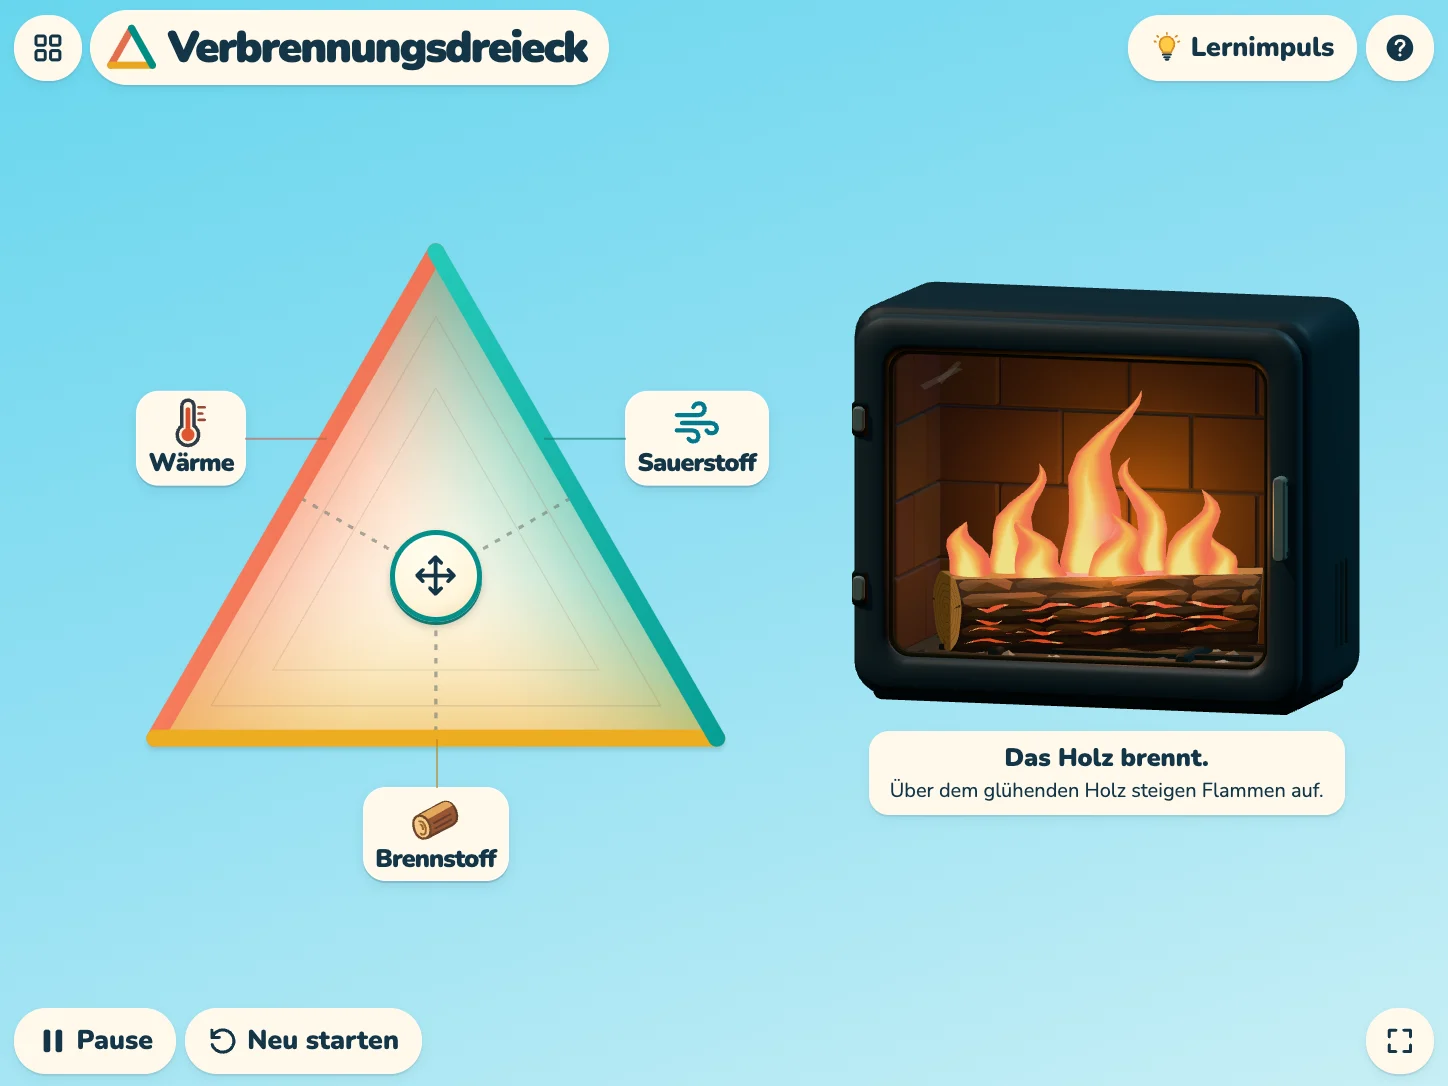
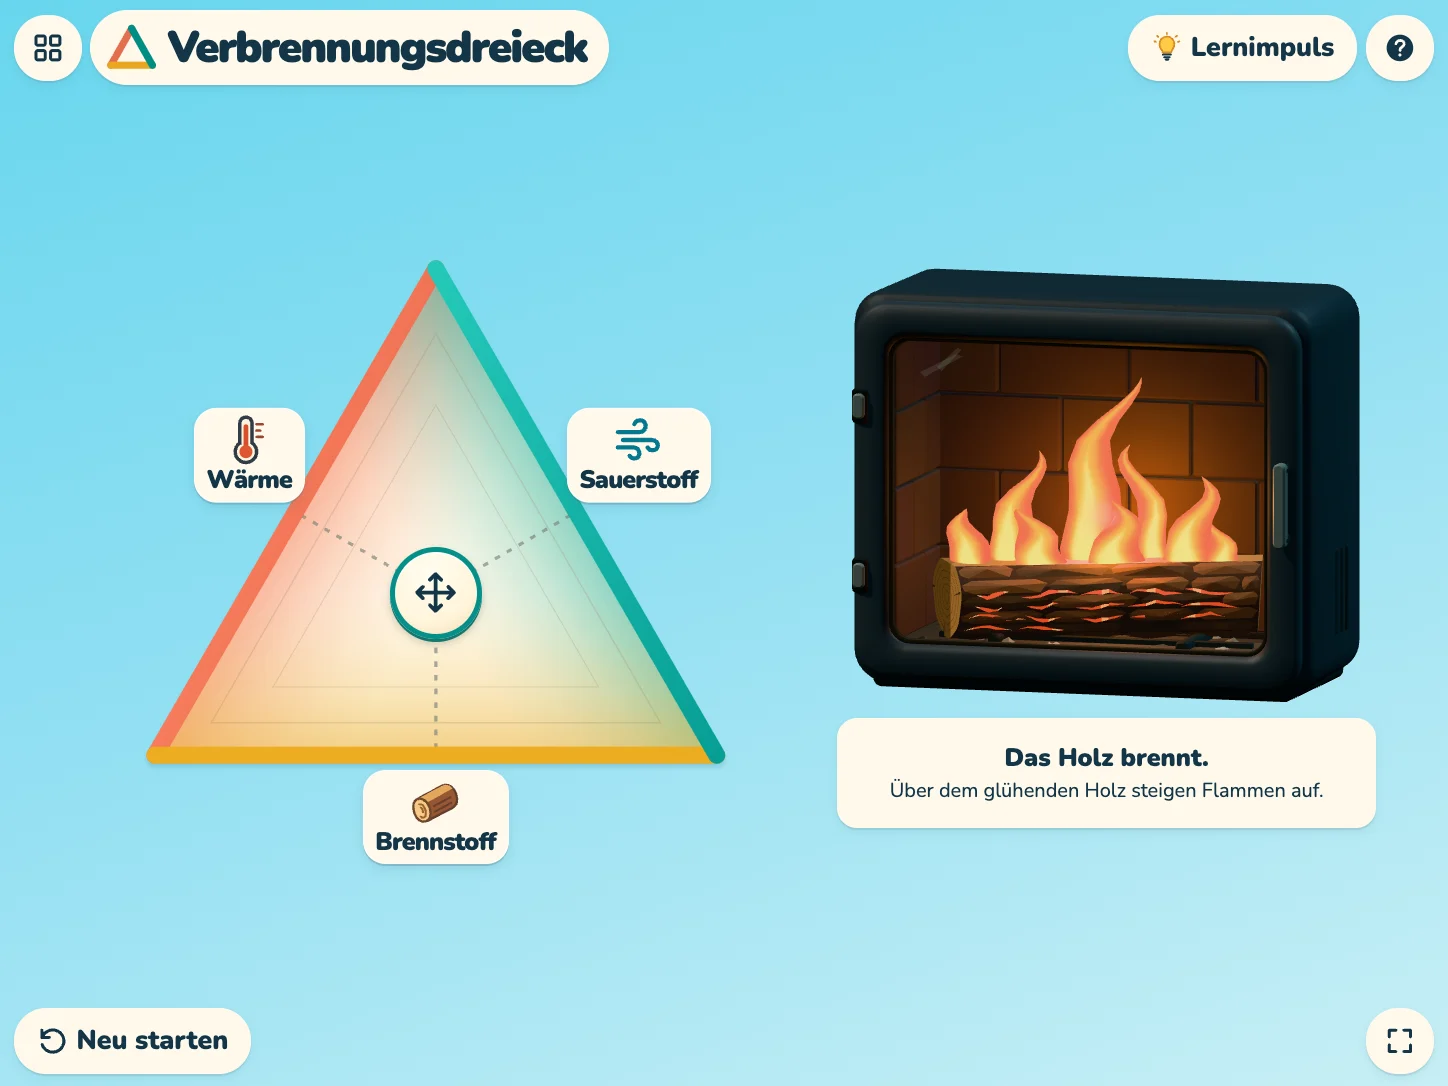
Keep the stove stationary and simplify the triangle controls

diff --git a/src/triangle/instrument.ts b/src/triangle/instrument.ts
@@ -86,26 +86,15 @@ function boardMarkup(): string {
     </div>`
 }
 
-function observation(reading: TriangleReading): [string, string] {
-  if (reading.state === 'steady')
-    return ['Das Holz brennt.', 'Über dem glühenden Holz steigen Flammen auf.']
-  if (reading.limitingFactor === 'fuel') {
-    if (reading.state === 'weak')
-      return ['Die Flammen sind kleiner.', 'Das Scheit wird dunkler. Ein Teil des Holzes ist schon verbrannt.']
-    return ['Die Flammen sind aus.', 'Auf dem verkohlten Rest liegt graue Asche.']
-  }
-  if (reading.state === 'weak')
-    return [
-      'Die Flammen sind kleiner.',
-      `Es ist weniger ${labels[reading.limitingFactor ?? 'oxygen']} verfügbar.`,
-    ]
-  if (reading.limitingFactor === 'heat')
-    return ['Die Flammen sind aus.', 'Das braune Holz ist noch da. Es ist zu kühl zum Weiterbrennen.']
-  return [
-    'Die Flammen sind aus.',
-    'Der Sauerstoff reicht nicht mehr zum Weiterbrennen der Flammen.',
-  ]
-}
+const observations = {
+  steady: ['Das Holz brennt.', 'Über dem glühenden Holz steigen Flammen auf.'],
+  'weak-heat': ['Die Flammen sind kleiner.', 'Es ist weniger Wärme verfügbar.'],
+  'weak-oxygen': ['Die Flammen sind kleiner.', 'Es ist weniger Sauerstoff verfügbar.'],
+  'weak-fuel': ['Die Flammen sind kleiner.', 'Das Scheit wird dunkler. Ein Teil des Holzes ist schon verbrannt.'],
+  'out-heat': ['Die Flammen sind aus.', 'Das braune Holz ist noch da. Es ist zu kühl zum Weiterbrennen.'],
+  'out-oxygen': ['Die Flammen sind aus.', 'Der Sauerstoff reicht nicht mehr zum Weiterbrennen der Flammen.'],
+  'out-fuel': ['Die Flammen sind aus.', 'Auf dem verkohlten Rest liegt graue Asche.'],
+} as const
 
 export interface TriangleInstrument {
   getReading(): TriangleReading
@@ -136,7 +125,9 @@ export function mountInstrument(
       </div>
       <span id="stove-camera-help" class="sr-only">Mit einem Finger seitlich ziehen oder die Pfeiltasten links und rechts nutzen. Pos1 zeigt die Startansicht.</span>
       <figcaption id="triangle-observation" aria-live="polite" aria-atomic="true">
-        <strong></strong><span></span>
+        ${Object.entries(observations).map(([key, [title, detail]]) =>
+          `<span class="observation-copy" data-observation="${key}" aria-hidden="true"><strong>${title}</strong><span>${detail}</span></span>`
+        ).join('')}
       </figcaption>
     </figure>
   </div>`
@@ -152,8 +143,7 @@ export function mountInstrument(
   const guides = factors.map(
     (factor) => [factor, find<SVGLineElement>(`[data-guide="${factor}"]`)] as const,
   )
-  const caption = find<HTMLElement>('figcaption strong')
-  const detail = find<HTMLElement>('figcaption span')
+  let activeCaption: HTMLElement | undefined
   const viewer = find<HTMLElement>('.stove-window')
   const load = find<HTMLElement>('.stove-load')
   const loadText = find<HTMLElement>('.stove-load span')
@@ -179,9 +169,12 @@ export function mountInstrument(
       guide.setAttribute('x2', String(end.x))
       guide.setAttribute('y2', String(end.y))
     }
-    const [title, hint] = observation(reading)
-    if (caption.textContent !== title) caption.textContent = title
-    if (detail.textContent !== hint) detail.textContent = hint
+    const key = reading.state === 'steady' ? 'steady' : `${reading.state}-${reading.limitingFactor}`
+    if (activeCaption?.dataset.observation !== key) {
+      activeCaption?.setAttribute('aria-hidden', 'true')
+      activeCaption = find<HTMLElement>(`[data-observation="${key}"]`)
+      activeCaption.removeAttribute('aria-hidden')
+    }
     instrument.dataset.fireState = reading.state
     stove?.setReading(reading)
   }

diff --git a/src/triangle/index.ts b/src/triangle/index.ts
@@ -68,7 +68,6 @@ export function mountTriangle(root: HTMLElement) {
     </div>
     <footer class="toolbar" aria-label="Versuch und Ansicht">
       <div class="play-controls">
-        <button class="pill" id="triangle-pause" type="button" aria-label="Pause" title="Pause"></button>
         <button class="pill" id="triangle-restart" type="button" aria-label="Neu starten" title="Neu starten">${icon('reset')}<span>Neu starten</span></button>
       </div>
       <div class="view-controls"><button id="fullscreen" class="pill compact" type="button" aria-label="Vollbild starten" title="Vollbild starten">${icon('expand')}</button></div>
@@ -79,7 +78,6 @@ export function mountTriangle(root: HTMLElement) {
 
   const session = new TriangleSession()
   const lesson = element<HTMLButtonElement>('triangle-lesson')
-  const pause = element<HTMLButtonElement>('triangle-pause')
   const next = element<HTMLButtonElement>('triangle-next')
   const nextLabel = element('triangle-next-label')
   const end = element<HTMLButtonElement>('triangle-end')
@@ -115,7 +113,7 @@ export function mountTriangle(root: HTMLElement) {
       (session.phase === 'discuss' && !watchingCooling) ||
       session.phase === 'transfer' ||
       session.phase === 'result'
-    instrument.setPaused(document.hidden || dialog.open || session.paused || discussing)
+    instrument.setPaused(document.hidden || dialog.open || discussing)
   }
 
   function refresh() {
@@ -125,11 +123,6 @@ export function mountTriangle(root: HTMLElement) {
     study.dataset.phase = phase
     study.dataset.factor = comparison.factor
     lesson.disabled = !free
-    pause.hidden = !free
-    const pauseLabel = session.paused ? 'Weiter' : 'Pause'
-    pause.innerHTML = `${icon(session.paused ? 'play' : 'pause')}<span>${pauseLabel}</span>`
-    pause.setAttribute('aria-label', pauseLabel)
-    pause.title = pauseLabel
     instrument.setInteractive(free || phase === 'explore')
     instrument.setGuide(session.guide)
     instrument.setPosition(session.position)
@@ -230,10 +223,6 @@ export function mountTriangle(root: HTMLElement) {
     }
   }
   end.onclick = leave
-  pause.onclick = () => {
-    session.togglePause()
-    refresh()
-  }
   element('triangle-restart').onclick = () => {
     session.restart()
     restorePlayback = undefined

diff --git a/tests/triangle-lesson.test.ts b/tests/triangle-lesson.test.ts
@@ -138,23 +138,20 @@ describe('guided wood comparisons', () => {
     expect(session.position).toEqual(TRIANGLE_CENTER)
   })
 
-  it('preserves free position, pause and camera angle on early exit and completion', () => {
+  it('preserves free position and camera angle on early exit and completion', () => {
     for (const complete of [false, true]) {
       const session = new TriangleSession()
       const point = factorPoint('fuel', 0.42)
       session.move(point)
-      session.togglePause()
       session.begin(-0.18)
       session.begin(0)
       session.next()
       session.move(factorPoint('oxygen', 0.3))
-      expect(session.paused).toBe(false)
       if (complete) {
         for (let i = 0; i < 12; i++) session.next()
       } else session.end()
       expect(session.phase).toBe('free')
       expect(session.position).toEqual(point)
-      expect(session.paused).toBe(true)
       expect(session.viewAngle).toBe(-0.18)
     }
   })
@@ -162,7 +159,6 @@ describe('guided wood comparisons', () => {
   it('restarts at the free burning baseline from a guided trial', () => {
     const session = new TriangleSession()
     session.move(factorPoint('heat', 1))
-    session.togglePause()
     session.begin(0.12)
     session.next()
     session.showObservation()
@@ -170,6 +166,5 @@ describe('guided wood comparisons', () => {
     expect(session.phase).toBe('free')
     expect(session.position).toEqual(TRIANGLE_CENTER)
     expect(session.viewAngle).toBe(STOVE_START_ANGLE)
-    expect(session.paused).toBe(false)
   })
 })

diff --git a/src/triangle/instrument.css b/src/triangle/instrument.css
@@ -85,39 +85,12 @@
   top: 38.5%;
   transform: translateY(-50%);
 }
-.label-heat { right: 76%; }
-.label-oxygen { left: 76%; }
-.triangle-label::before {
-  position: absolute;
-  content: "";
-  pointer-events: none;
-  opacity: 0.64;
-}
-.label-heat::before,
-.label-oxygen::before {
-  top: 50%;
-  height: 2px;
-  width: 11.2cqw;
-}
-.label-heat::before {
-  left: 100%;
-  background: #c2644b;
-}
-.label-oxygen::before {
-  right: 100%;
-  background: #167e77;
-}
+.label-heat { right: 68%; }
+.label-oxygen { left: 68%; }
 .label-fuel {
   position: relative;
   transform: none;
-  margin-top: max(5px, 2cqw);
-}
-.label-fuel::before {
-  width: 2px;
-  height: calc(4.7cqw + max(5px, 2cqw));
-  bottom: 100%;
-  left: 50%;
-  background: #ba8626;
+  margin-top: -2.7cqw;
 }
 .triangle-knob {
   display: grid;
@@ -193,7 +166,6 @@
 }
 #triangle-observation {
   display: grid;
-  gap: 3px;
   width: fit-content;
   max-width: 100%;
   padding: 0.55em 1.05em;
@@ -203,6 +175,16 @@
   text-align: center;
   font-size: clamp(14px, 1.55vw, 20px);
   line-height: 1.3;
+}
+/* Stack all observations in one cell so wrapping never moves the stove. */
+.observation-copy {
+  grid-area: 1 / 1;
+  align-self: center;
+  display: grid;
+  gap: 3px;
+}
+.observation-copy[aria-hidden="true"] {
+  visibility: hidden;
 }
 #triangle-observation strong {
   font-size: 1.25em;

diff --git a/src/triangle/lesson.ts b/src/triangle/lesson.ts
@@ -85,7 +85,7 @@ const comparisons: readonly Comparison[] = [
   },
 ]
 
-/** The free experiment and its camera and pause setting survive a complete or interrupted lesson. */
+/** The free experiment and its camera angle survive a complete or interrupted lesson. */
 export class TriangleSession {
   phase: TrianglePhase = 'free'
   private index = 0
@@ -93,7 +93,6 @@ export class TriangleSession {
   prediction: Prediction | null = null
   private guidedPoint = TRIANGLE_CENTER
   private freePoint = TRIANGLE_CENTER
-  private freePaused = false
   private freeAngle = STOVE_START_ANGLE
 
   get comparison() {
@@ -127,9 +126,6 @@ export class TriangleSession {
   }
   get position() {
     return this.phase === 'free' ? this.freePoint : this.guidedPoint
-  }
-  get paused() {
-    return this.phase === 'free' && this.freePaused
   }
   get viewAngle() {
     return this.freeAngle
@@ -216,10 +212,6 @@ export class TriangleSession {
     }
   }
 
-  togglePause() {
-    if (this.phase === 'free') this.freePaused = !this.freePaused
-  }
-
   end() {
     this.phase = 'free'
   }
@@ -228,7 +220,6 @@ export class TriangleSession {
   restart() {
     this.phase = 'free'
     this.freePoint = TRIANGLE_CENTER
-    this.freePaused = false
     this.freeAngle = STOVE_START_ANGLE
   }
 }

diff --git a/README.md b/README.md
@@ -8,7 +8,7 @@ Two German, touch-first fire science activities for primary-school children aged
 
 Open `?modul=verbrennungsdreieck`. Drag the knob or tap a point in the triangle. Moving farther from an edge reduces the corresponding condition. In the centre all three are sufficient. The thermometer stands for heat, the wind symbol for oxygen and the log for fuel. The adjacent stove shows the effect on wood, flame and glow. The stove starts at a slight angle so its front and right side are visible. Drag directly on the stove or focus it and use the left and right arrow keys to look around. Home restores its starting view. With the knob focused, arrow keys move it and Home centres it.
 
-Choose **Lernimpuls** to compare oxygen, heat and fuel in turn. Children can tap a picture to predict the outcome or discuss it aloud before observing. The oxygen trial compares a smaller flame with the loss of visible flames. The remaining trials distinguish a cooled, brown log from a dark, charred log. Lowering the remaining fuel progressively chars the visible surface while preserving the size and position of the log. Each trial starts with the same burning specimen. **Beobachtung zeigen** reaches the same observation as moving the knob by hand. Closing the lesson restores the free experiment, including the viewing angle and pause state.
+Choose **Lernimpuls** to compare oxygen, heat and fuel in turn. Children can tap a picture to predict the outcome or discuss it aloud before observing. The oxygen trial compares a smaller flame with the loss of visible flames. The remaining trials distinguish a cooled, brown log from a dark, charred log. Lowering the remaining fuel progressively chars the visible surface while preserving the size and position of the log. Each trial starts with the same burning specimen. **Beobachtung zeigen** reaches the same observation as moving the knob by hand. Closing the lesson restores the free experiment, including the viewing angle.
 
 ![The triangular control beside a burning log in the 3D stove](docs/verbrennungsdreieck.webp)
 

diff --git a/ARCHITECTURE.md b/ARCHITECTURE.md
@@ -27,7 +27,7 @@ Pointer, touch, keyboard and guided moves use the same coordinate system. Inputs
 
 The specimen is a comparison of the same piece of initially burning wood under different conditions. Returning to the centre restores the comparison baseline. The renderer loads one Blender-authored GLB with separate fuel, ember and flame groups. Three.js plays the exported flame deformation with an AnimationMixer. As the available fuel decreases, the surface progresses from fresh wood to charcoal with an ash-grey grain. The geometry remains on the grate at full size. Changing heat or oxygen alone affects the fire and preserves the wood surface. After loss of flame due to oxygen, residual luminosity fades with model time. The orthographic camera starts facing the front and right side of the stove. Pointer dragging and keyboard arrows turn the view within the original 20-degree limit on either side of the front. Home restores the starting angle. The animation loop suspends unnecessary work while paused or hidden and honours reduced motion. The native HTML controls and observation text remain available if the model fails to load.
 
-A guided session retains the free control position, camera angle, animation phase and pause setting. Each factor trial restores the burning baseline, accepts an optional prediction, and uses the same observation point for guided dragging and the skip button. The adult help explains the mapping and the purpose of the baseline. Trial answers exist only in memory.
+A guided session retains the free control position, camera angle and animation phase. Each factor trial restores the burning baseline, accepts an optional prediction, and uses the same observation point for guided dragging and the skip button. The adult help explains the mapping and the purpose of the baseline. Trial answers exist only in memory.
 
 ## Smoke model
 

diff --git a/design-qa.md b/design-qa.md
@@ -4,9 +4,11 @@ The [wood-stove concept](docs/konzept-verbrennungsdreieck-holzscheit.png) sets t
 
 ## The free experiment
 
-The framed module title sits in the same toolbar as the Brandhaus title. Each coloured side has a large pictogram above its name. Colours continue into the triangle from their respective edges, and the dotted guides track the knob as it moves. In the centre, all three conditions are sufficient.
+The framed module title sits in the same toolbar as the Brandhaus title. Each coloured side has an adjacent label with the pictogram above its name. Colours continue into the triangle from their respective edges, and the dotted guides track the knob as it moves. In the centre, all three conditions are sufficient.
 
 The starting camera shows the stove door, top and right side. Children turn the stove by dragging directly on it. With keyboard focus on the stove, Left and Right turn it and Home restores the starting view. Help and the guided lesson explain the interaction on demand.
+
+The observation area reserves space for the longest wrapped caption at each screen width. The browser test compares the stove canvas bounds before and after cooling the log, including a change from one line of detail to two at 1024 × 768.
 
 The fuel comparison changes the appearance of the full log resting on the grate. The wood darkens and an ash-grey grain becomes visible at the end of the comparison. Moving away from heat instead leaves cooled, brown wood. The guided activity uses these distinct appearances in its prediction pictures and observations.
 
